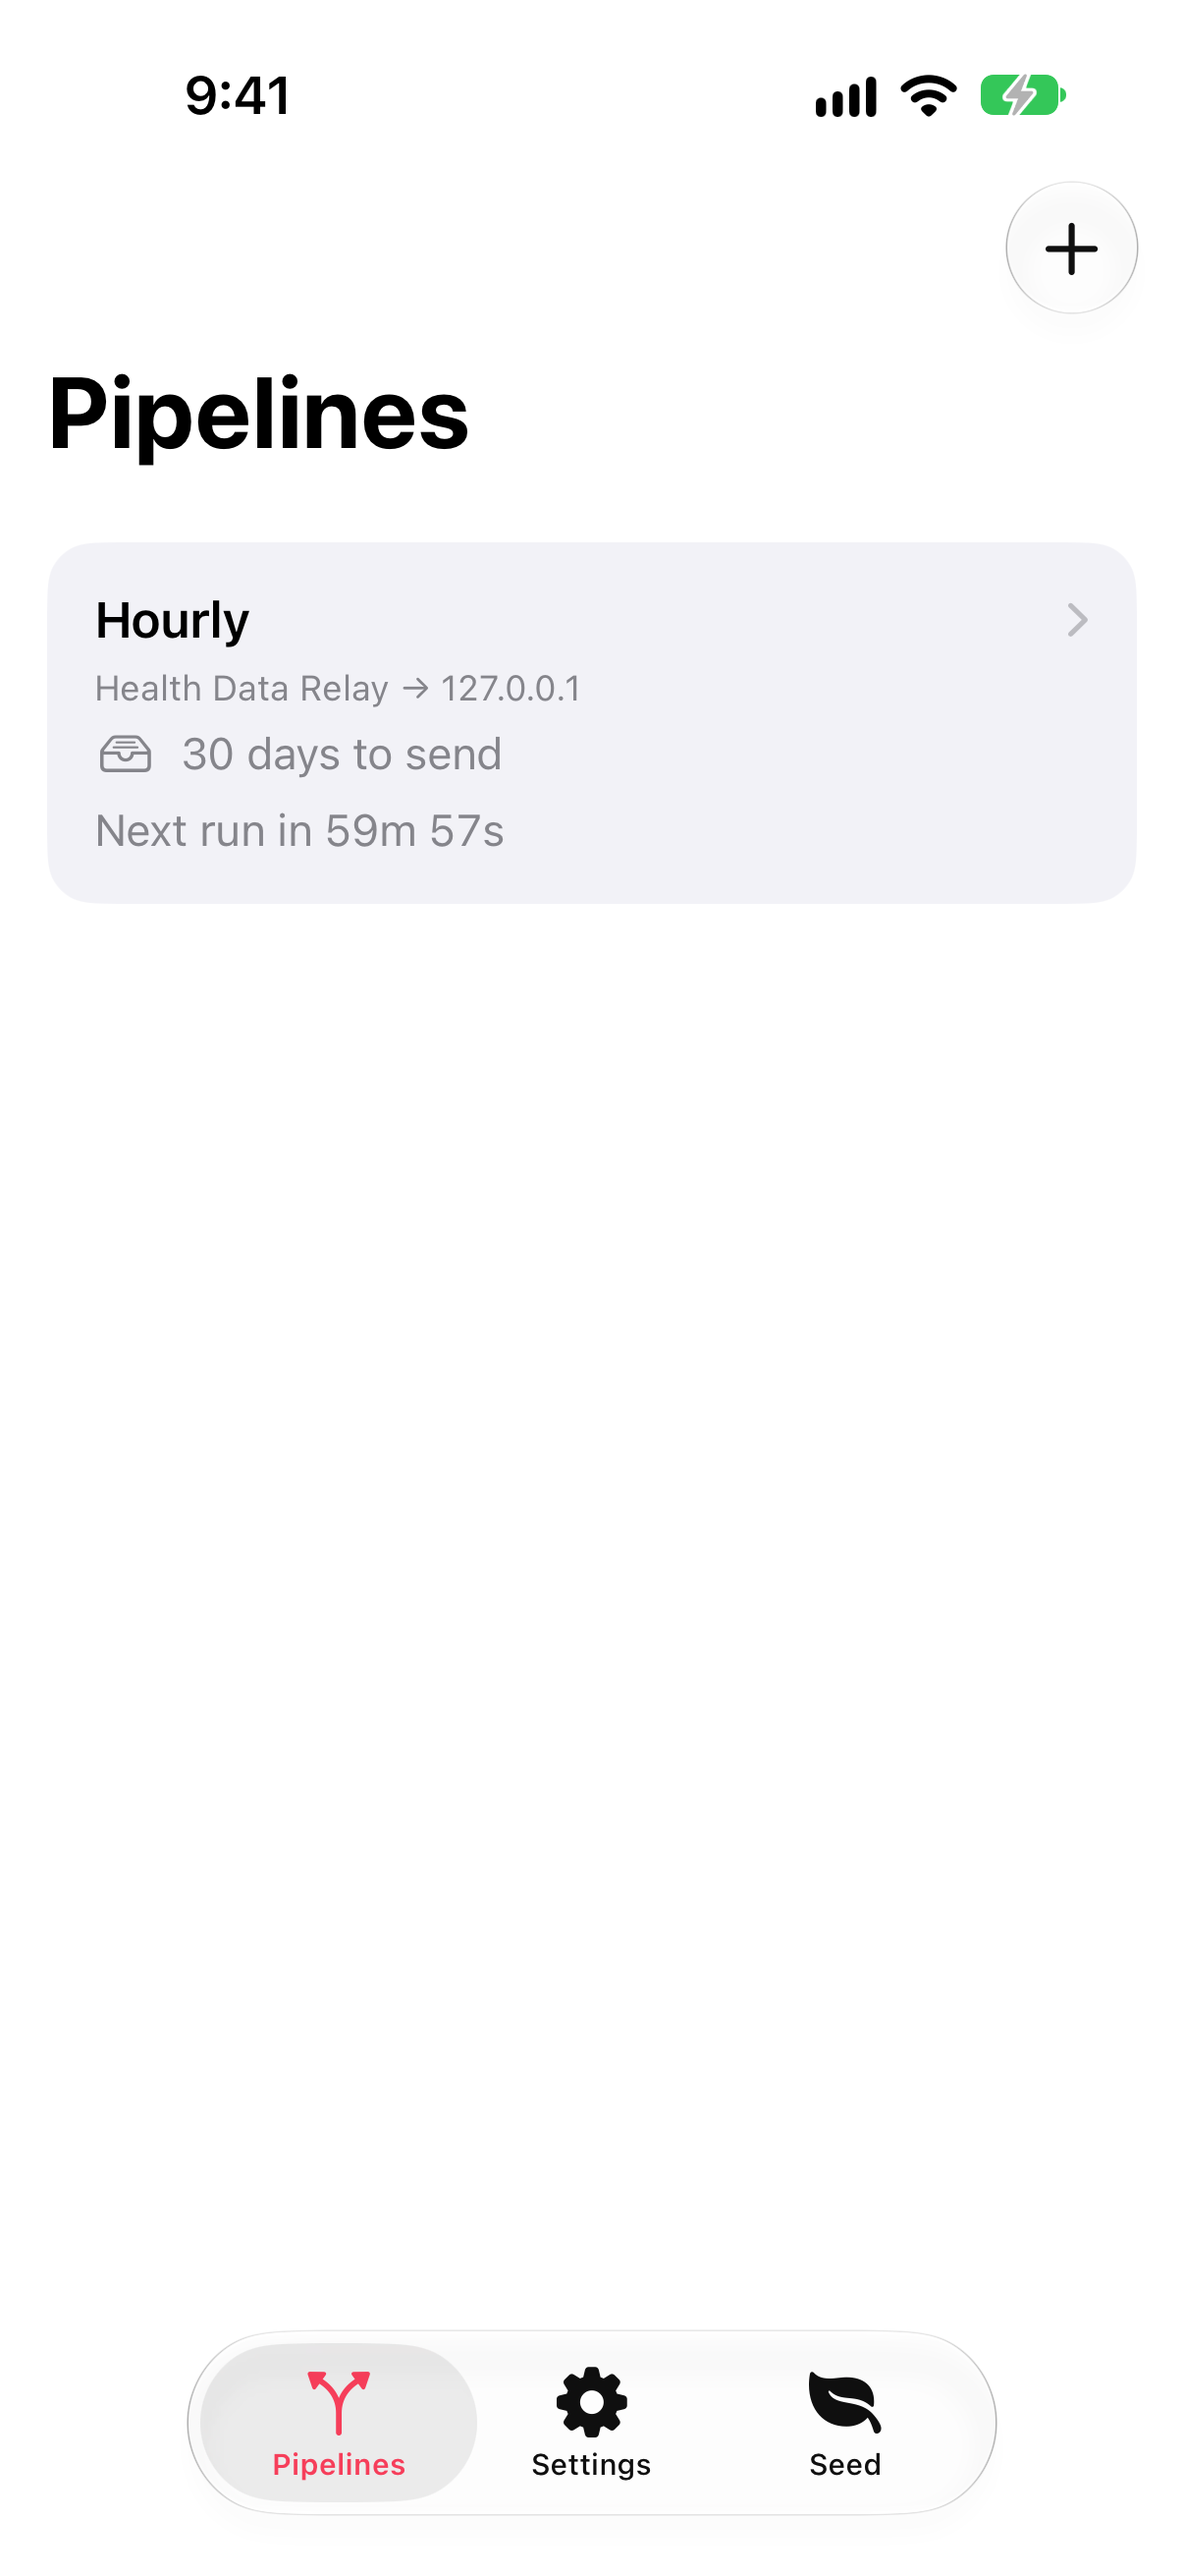
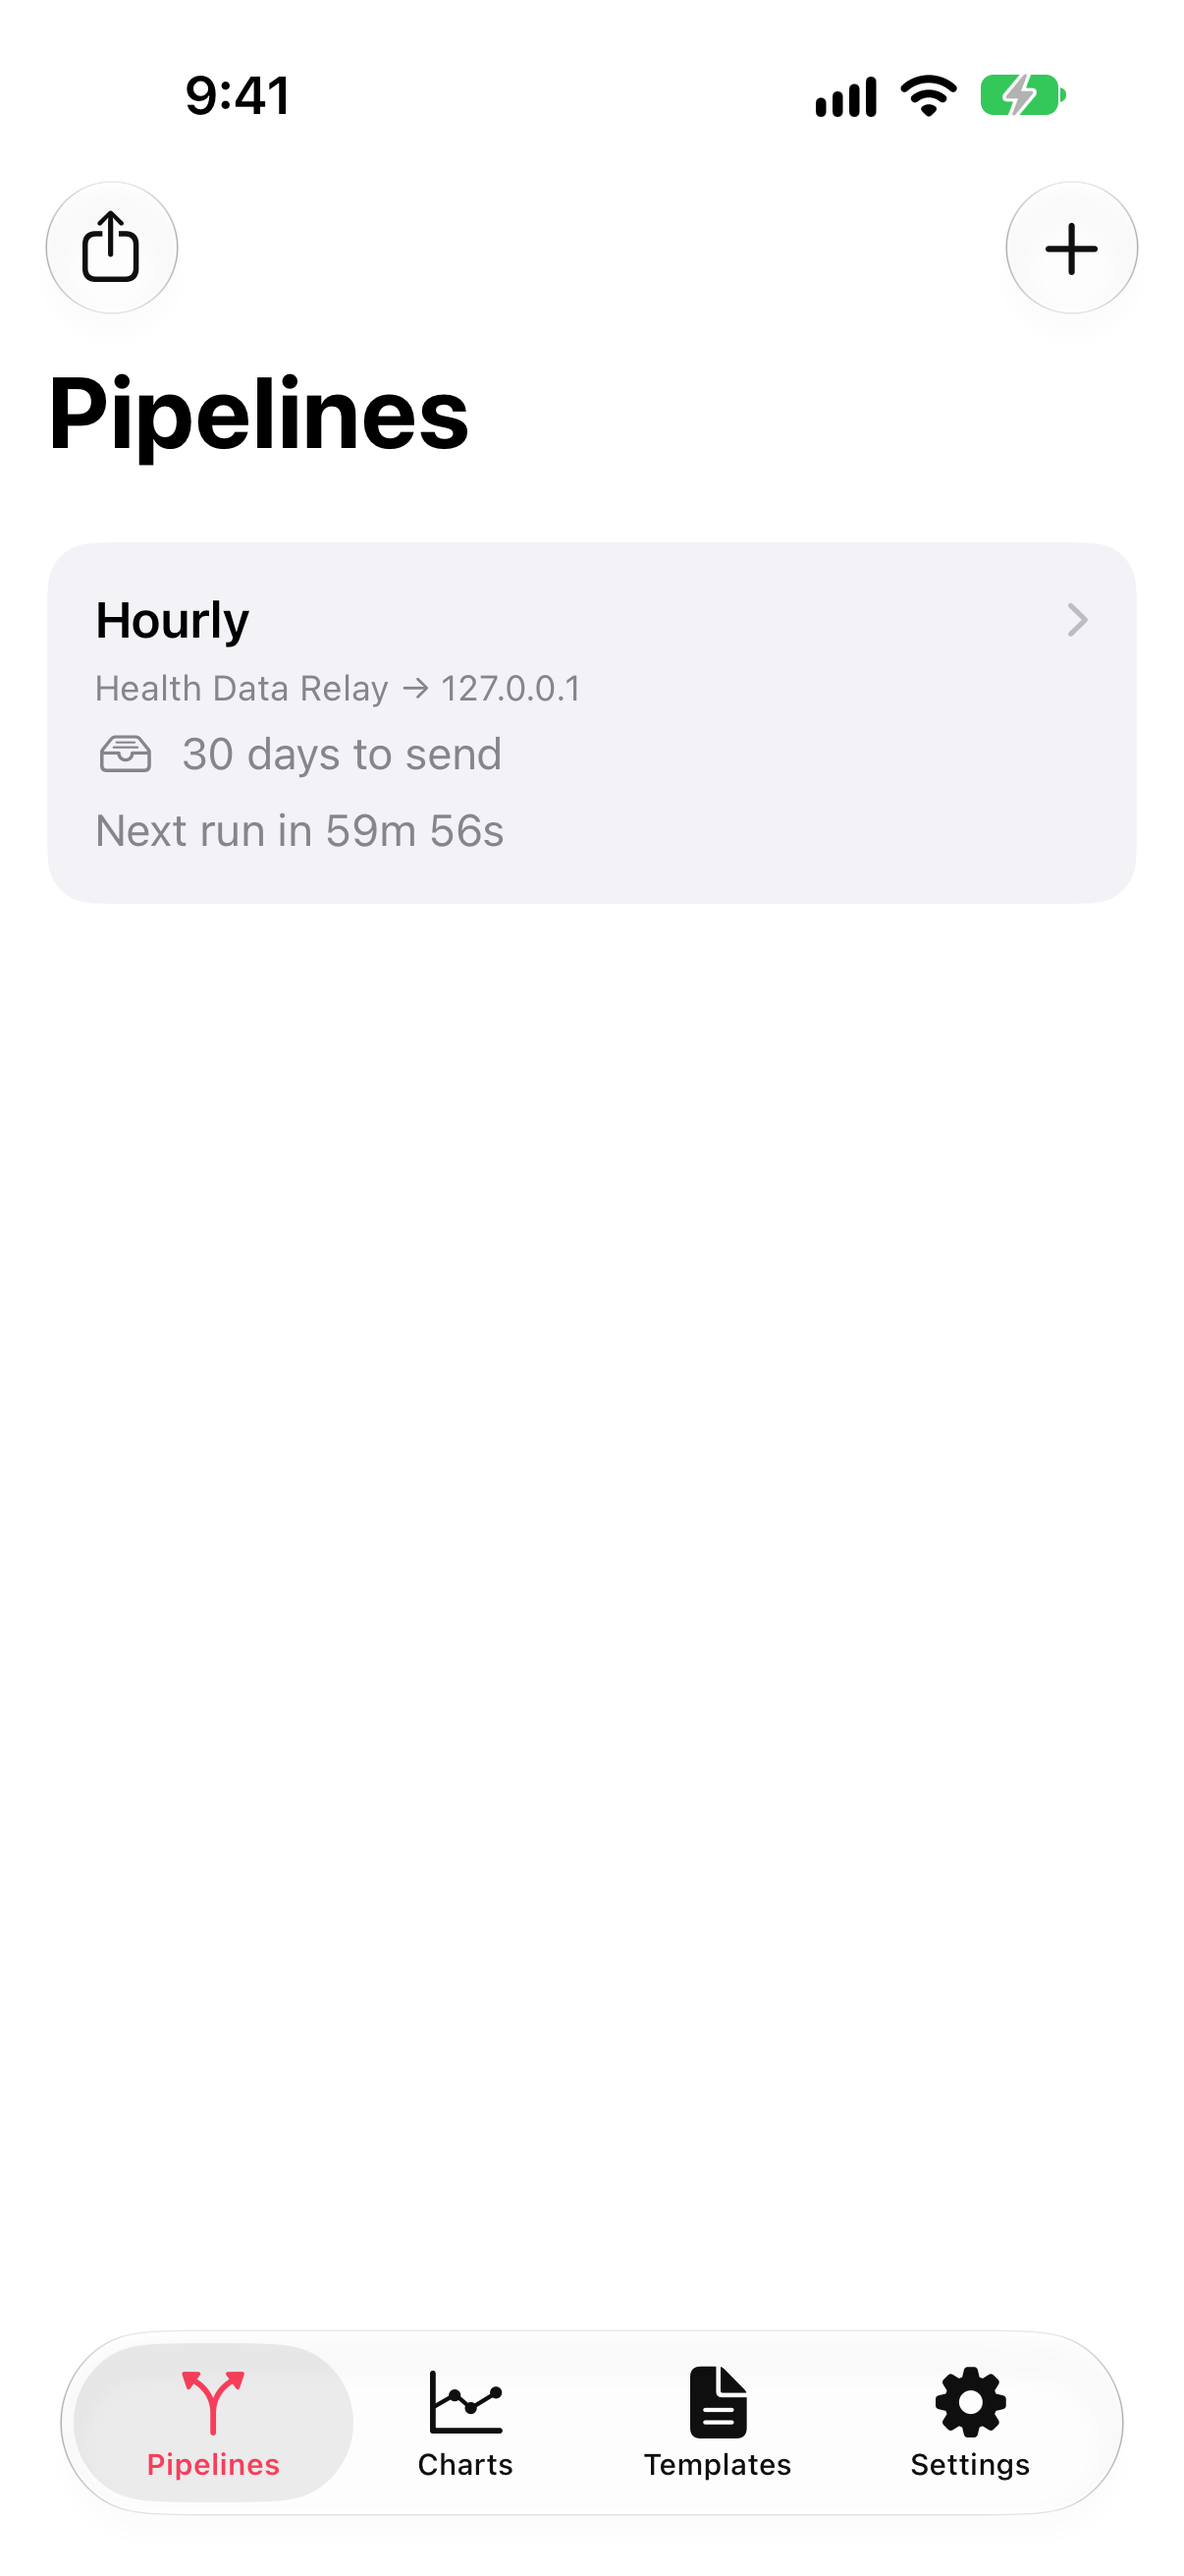
Site: templates, more destinations and current screenshots
The pages still described an app that only sent the schema to HTTP
endpoints, and the screenshots still showed two tabs. The privacy policy
and What is sent now cover the on-device server, the Mac dashboard, the
widgets' summary and the extra sections a template can read.

Claude-Session: https://claude.ai/code/session_01C5xUfXNjwKjpPP1A2iuPPb

diff --git a/site/src/content/docs/guides/pipelines.md b/site/src/content/docs/guides/pipelines.md
@@ -8,13 +8,14 @@ sidebar:
 Everything Health Data Relay does is a **pipeline**, and each one shows as a card
 on the Pipelines tab.
 
-| Part | What it does | Today |
+| Part | What it does | Choices |
 |---|---|---|
-| **Transform** | The shape to send your days in | `Health Data Relay`, [the schema](/reference/schema/) |
-| **Destination** | Where they go | An HTTP endpoint |
-| **Trigger** | When it runs | Manual, when Health changes, or a schedule |
+| **Transform** | The shape to send your data in | `Health Data Relay`, [the schema](/reference/schema/), or a [template](#templates) |
+| **Destination** | Where it goes | A REST API, or with a template, [others](#other-destinations) |
+| **Trigger** | When it runs | Manual, when Health changes, every so often, or at a set time |
 
-Each run sends the days that changed, whole.
+With the Health Data Relay transform, each run sends the days that changed, whole. A template
+reads the range you set under **How much**.
 
 Add as many as you like. Each keeps track of its own days, so running one
 never runs another, and one failing never holds up another.
@@ -25,7 +26,7 @@ A **manual** card has a **Run** button. Tapping it runs that pipeline after
 anything already running, and shows **Queued** until its turn. It also skips any
 wait after a failed delivery, so it always tries.
 
-A **scheduled** card counts down: **Next run in 3h 12m 05s**. Scheduled cards
+A **scheduled** or **set time** card counts down: **Next run in 3h 12m 05s**. These cards
 don't need a Run button, but open one and **Run now** is there.
 
 iOS decides when background work happens, so a countdown can't promise a run
@@ -61,10 +62,10 @@ Tap a card for **Run now**, its parts and **Edit**, and:
 - **Deliveries**, newest first: the days in each batch, when, the HTTP status,
   and what the receiver said. The days still waiting are listed at the top.
 - **Test**, which sends an empty push and shows the answer.
-- **Re-send recent days**, which sends the last 7, 14 or 35 days again, replacing
+- **Re-send recent days**, on a pipeline that sends changed days, which sends the last 7, 14 or 35 days again, replacing
   what the destination holds for those days with what the phone has now. See
   [Re-send on demand](/guides/when-it-syncs/#re-send-on-demand).
-- **Paused** and **Remove pipeline**.
+- **Paused**, for a pipeline that runs by itself, and **Remove pipeline**.
 
 ## Settings
 
@@ -85,8 +86,8 @@ kind of data** there asks iOS for access to everything a pipeline can read.
 
 A pipeline's **Transform** can be a template, which decides what its output looks like. The
 **Templates** tab lists the ones that come with the app: Metrics JSON v2, Metrics CSV, Health
-Report Markdown, Health Summary HTML, Workout Routes GPX and Health Data Relay, which writes
-the native format out field by field.
+Report Markdown, Health Summary HTML, Workout Routes GPX, Home Assistant Sensors, Workouts on a
+Calendar and Health Data Relay, which writes the native format out field by field for you to copy.
 
 To write your own, tap **New template**, or copy a built-in and change it. **Preview** shows
 what it writes on sample data, or on your own last three days, and a mistake shows its line
@@ -97,19 +98,19 @@ lists everything a template can use.
 ## Exporting once
 
 **Export**, at the top of the Pipelines screen, makes a file from a template and some dates without
-setting up a pipeline. You can also choose a single workout. When it's done, share the file wherever
+setting up a pipeline. Choose a range like the last 24 hours or the last 30 days, or **Custom** for
+dates of your own. You can also choose a single workout. When it's done, share the file wherever
 you like. Several files arrive as a ZIP.
 
 For an export you repeat, make a pipeline with **Share sheet** as its destination. **Ask when run**,
-under How much, asks for the dates each time you tap Run.
+under How much, asks for the range each time you tap Run.
 
 ## Other destinations
 
-**Files or cloud** saves each part as a file in a folder you pick, Dropbox or Google Drive, which can turn a CSV into a Sheet. Connect a cloud account in
-**Settings › Connected accounts** first. iCloud Drive isn't supported yet, while Apple's rules on health data in iCloud are checked.
+**Files** saves each part as a file in a folder you pick. iCloud Drive isn't supported yet, while Apple's rules on health data in iCloud are checked.
 
-A template pipeline can send to **Email**, from your own mail server or a service like Resend without you doing
-anything, or by composing in Mail, Gmail or another app with a tap. It can also send to **MQTT**, one message per part, or to **Calendar**, where each workout or other event
+A template pipeline's **Type** can be **REST API**, with a choice of method, headers and file upload, or **Share sheet**. It can also send to **Email**, from your own mail server or a service like Resend without you doing
+anything, or by composing in Mail, Gmail or another app with a tap, to **MQTT**, one message per part, or to **Calendar**, where each workout or other event
 stays one event however often it runs. For **Home Assistant**, start from its preset: fill in your server's address and a
 long-lived access token, and each metric appears as a sensor.
 

diff --git a/docs/design.md b/docs/design.md
@@ -12,11 +12,9 @@ Everything the app does is a **pipeline**: **Extract** from the health store,
 when. Each shows as a card: a manual one has a Run button, a scheduled one
 counts down to its next run.
 
-v1 has one Extract (the days that changed, below), one Transform (the
-in-memory `Health Data Relay` format, the schema one batch at a time) and one Load
-(an HTTP endpoint, a *destination* below). The app shows only the last two
-parts, as the format and the destination; the Extract is not a choice yet.
-Triggers:
+The default Extract is the days that changed (below), its Transform the in-memory
+`Health Data Relay` format (the schema one batch at a time), and its Load an HTTP
+endpoint, a *destination* below. A template pipeline chooses each of them. Triggers:
 
 - **Manual**: runs only when the user taps Run. The default.
 - **When Health changes**: the triggers under [When to sync](#when-to-sync).
@@ -145,6 +143,8 @@ secret ships in the app. Their tokens live in the Keychain, and an expired one r
 A large cloud upload goes in 8 MB chunks with its position saved, so an interrupted one carries on where it stopped: Dropbox from the saved offset, and Google by
 asking how much arrived. Google Drive can turn a CSV into a Sheet as it uploads, and its `drive.file` access only reaches files this app made.
 
+Dropbox and Google Drive need OAuth clients built into the app. A build without them offers neither, and doesn't show Connected accounts.
+
 **iCloud Drive is off.** Guideline 5.1.3(ii) says apps "may not store personal health information in iCloud", so a folder there is refused until
 Apple has answered whether a file a user chose to put there themselves counts. `Features.iCloudDriveFolders` turns it on.
 
@@ -231,12 +231,11 @@ and a `session-id` is new per request.
 ## Destinations
 
 The app holds a list of destinations. Each has a type, a name, a paused
-flag and its own delivery state. v1 has one type, **HTTP endpoint**: a URL,
-an optional bearer token (kept in the platform's secure store, never in
-plain files), optional extra headers, and the schema as the body. A new
-type (a file in iCloud Drive, MQTT, a templated webhook) implements one
-operation, *deliver this batch and report the verdict*, and reuses
-everything below.
+flag and its own delivery state. The native push has one type, **HTTP endpoint**,
+shown as REST API: a URL, an optional bearer token (kept in the platform's secure
+store, never in plain files), optional extra headers, and the schema as the body.
+Template pipelines have the other types above, and each implements one operation,
+*deliver this and report the verdict*, and reuses everything below.
 
 The user sees the word "destination" and the destination's own name. The
 app never names a particular receiver.

diff --git a/site/src/content/docs/guides/when-it-syncs.md b/site/src/content/docs/guides/when-it-syncs.md
@@ -5,8 +5,10 @@ sidebar:
   order: 1
 ---
 
-Every run is the same job, whatever started it: work out which days changed,
-read them in full from Health, and send them to the pipeline's destination.
+Every run of the Health Data Relay transform is the same job, whatever started it:
+work out which days changed, read them in full from Health, and send them to the
+pipeline's destination. A template pipeline reads the range you set under **How
+much** instead, such as since the last run, or the last 7 days.
 
 ## What starts a run
 
@@ -15,10 +17,13 @@ Each pipeline has its own trigger, set when you add or edit it.
 **Manual**, the default: only tapping **Run** or **Run now**. With every pipeline
 manual, Health Data Relay doesn't ask iOS to wake it at all.
 
-**A schedule**: every so many minutes, hours, days or weeks after its last run.
-It runs at the first chance once due: when iOS gives the app background time, or
+**A schedule**: every so many minutes, hours, days or weeks after its last run,
+or every so many seconds while the app is open. It runs at the first chance once due: when iOS gives the app background time, or
 straight away if the app is open. A failed delivery retries when its wait ends,
 without waiting for the next interval.
+
+**At a set time**: a time of day, on the days you choose. iOS decides when
+background work happens, so this is the earliest it can run.
 
 **When Health changes**: any of these.
 
@@ -48,6 +53,8 @@ unlock the phone in the morning. If a run comes while the data is locked, its
 card says so and the next run picks the days up; nothing is lost.
 
 ## Which days a run sends
+
+This is for the Health Data Relay transform, and templates set to **Days that changed**.
 
 - **Days with new data.** Health Data Relay tracks every type with a
   bookmark, so it knows exactly which days gained samples since the last

diff --git a/site/src/content/docs/privacy.md b/site/src/content/docs/privacy.md
@@ -3,7 +3,7 @@ title: Privacy policy
 description: What Health Data Relay reads, where it goes and how to stop it.
 ---
 
-**Health Data Relay has no server and no account. Its developer never receives your health data.**
+**Health Data Relay has no server of ours and no account. Its developer never receives your health data.**
 
 ## What the app reads
 
@@ -13,6 +13,8 @@ The Health data you allow in the iOS Health permission sheet. You can choose typ
 
 Only to the destinations you add. A destination is a web address, file location or other target you type in or scan from a setup link. The app sends your data there directly from your iPhone, and what happens to it after that is up to whoever runs that destination.
 
+If you turn on the server in Settings, tools on your own network that have its token can read your Health data while the app is open. That includes the optional Mac dashboard, which keeps a copy of what it last read on that Mac.
+
 The app includes no analytics, advertising or tracking.
 
 ## What's kept on your iPhone
@@ -21,8 +23,9 @@ The app includes no analytics, advertising or tracking.
 - Bearer tokens and other credentials, in the iOS Keychain
 - A log of recent deliveries
 - Output waiting to be sent, removed once delivered
+- A summary for the widgets: today's steps, energy, exercise, resting heart rate, sleep and weight, and how your pipelines stand
 
-None of this is included in iCloud or device backups, except for what iOS backs up in the Keychain.
+Apart from that summary, none of this is included in iCloud or device backups, except for what iOS backs up in the Keychain.
 
 ## Stopping and deleting
 

diff --git a/site/src/content/docs/guides/what-is-sent.md b/site/src/content/docs/guides/what-is-sent.md
@@ -7,13 +7,14 @@ sidebar:
 
 ## Your data goes only where you send it
 
-Health Data Relay has no server, account or analytics. It reads Health on your
-phone and sends days to the destinations you added, and nothing anywhere
-else. Tokens stay in the iPhone's Keychain. The queue of unsent batches
+Health Data Relay has no server of ours, no account and no analytics. It reads Health
+on your phone and sends it to the destinations you added, and nothing anywhere
+else. If you turn on **Settings › Server**, tools on your own network that have its
+token can ask for your data while the app is open. Tokens stay in the iPhone's Keychain. The queue of unsent batches
 lives in the app's own storage and is not backed up.
 
 Never read or sent: clinical records, your name, your date of birth, or
-anything not listed below.
+anything not listed on this page.
 
 ## What a day carries
 
@@ -42,6 +43,9 @@ that day:
   Move goal.
 - **ECG recordings**: classification, average heart rate and the trace,
   averaged to 128 samples a second.
+
+A template pipeline or a tool using the server can also ask for state of mind, cycle
+tracking, medications and heart rate notifications, if you allow them.
 
 The exact format is [the schema](/reference/schema/). It uses Apple
 Health's own names, the same ones as in a Health export, so a receiver that

diff --git a/site/src/content/docs/getting-started/first-pipeline.md b/site/src/content/docs/getting-started/first-pipeline.md
@@ -6,10 +6,11 @@ sidebar:
 ---
 
 A [**pipeline**](/guides/pipelines/) takes days from Health and delivers them
-to a destination, when you tap Run or on a schedule. Today a destination is any
-HTTP endpoint that accepts [the schema](/reference/schema/): your own server, a
-self-hosted dashboard, a home automation webhook. You can add as many as you
-like, and they never hold each other up.
+to a destination, when you tap Run or on a schedule. This page sets up the
+simplest one: any HTTP endpoint that accepts [the schema](/reference/schema/), such
+as your own server, a self-hosted dashboard or a home automation webhook. You can
+add as many as you like, and they never hold each other up. For other formats and
+destinations, see [Pipelines](/guides/pipelines/#templates).
 
 ## Scan a setup code
 
@@ -30,6 +31,8 @@ Receivers: the link format is in
 1. On the **Pipelines** tab, tap **+**.
 2. Fill in:
    - **Name**: anything; it's how the app labels the pipeline.
+   - **Transform**: leave it on **Health Data Relay**.
+   - **Type**, under Destination: **REST API**.
    - **URL**: the endpoint, `https://` (or `http://` on your local
      network).
    - **Bearer token**: if the receiver gave you one. It is sent as

diff --git a/site/src/content/docs/guides/moving-from-health-auto-export.md b/site/src/content/docs/guides/moving-from-health-auto-export.md
@@ -18,7 +18,7 @@ If you have an automation link (`com.HealthExport://automation?...`), copy it. I
 | JSON v2 | The **Metrics JSON v2** template |
 | Markdown | The **Health Report Markdown** template |
 | GPX | The **Workout Routes GPX** template |
-| REST API | A web destination |
+| REST API | A **REST API** destination |
 | Time grouping | **Grouping** |
 | Summarize data off | Grouping: **Every sample** |
 | Default date range, Today, Yesterday | **How much** |
@@ -36,7 +36,7 @@ If you have an automation link (`com.HealthExport://automation?...`), copy it. I
 
 **You can change the output.** Every format is a template you can copy and edit.
 
-**iCloud Drive isn't supported yet**, while Apple's rules on health data in iCloud are checked. Use a folder, Dropbox or Google Drive.
+**iCloud Drive isn't supported yet**, while Apple's rules on health data in iCloud are checked. Use a folder on your iPhone or another destination.
 
 **It's free**, with no account.
 
